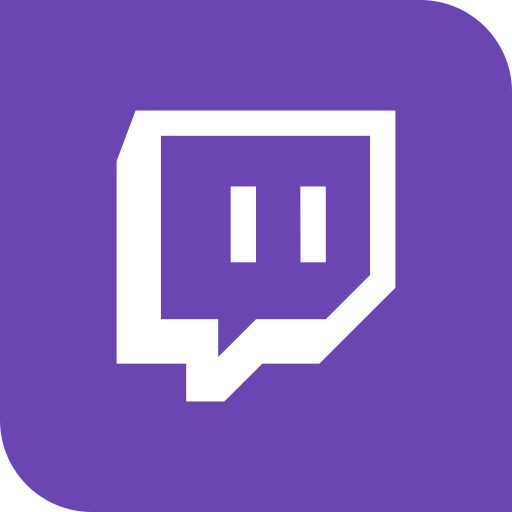
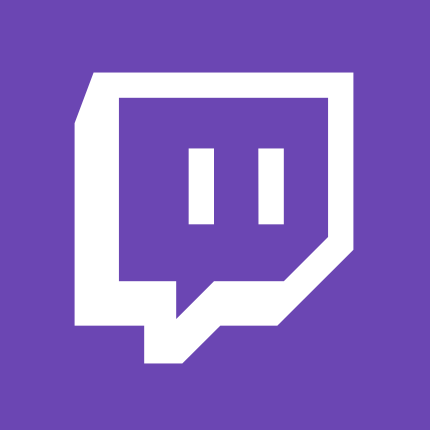
ui: brand images + border-radius

diff --git a/src/components/cardComponent.vue b/src/components/cardComponent.vue
@@ -2,7 +2,7 @@
     <div class="card h-100 border-0 bg-transparent" @click="goToCard" @click.middle="goToCard('middle')">
         <div class="position-relative border border-3 rounded-1" :class="card.type === 'podcast' ? 'border-success' :
             card.type === 'video' ? 'border-yt' : 'border-tw'">
-            <img v-lazy="{ src: images['320'][`${imgName}`] || images['320'][`default`], loading: 'Loading your image'}" class="card-img-top" alt="thumbnail">
+            <img v-lazy="{ src: images['320'][`${imgName}`] || images['320'][`default`], loading: 'Loading your image'}" class="w-100" alt="thumbnail">
             <span class="badge rounded-0 bg-black position-absolute top-0 start-0"
                   style="--bs-bg-opacity: .75;">{{ card.date }}</span>
             <span class="badge rounded-0 bg-black position-absolute bottom-0 end-0"

diff --git a/src/components/miniCardComponent.vue b/src/components/miniCardComponent.vue
@@ -2,7 +2,7 @@
     <div class="card h-100 border-0 bg-transparent" @click="goToCard">
         <div class="position-relative border border-3 rounded-1" :class="card.type === 'podcast' ? 'border-success' :
             card.type === 'video' ? 'border-yt' : 'border-tw'">
-            <img :src="images['320'][`${imgName}`] || images['320'][`default`]" class="card-img-top" alt="thumbnail">
+            <img :src="images['320'][`${imgName}`] || images['320'][`default`]" class="w-100" alt="thumbnail">
             <span class="badge rounded-0 bg-black position-absolute top-0 start-0"
                   style="--bs-bg-opacity: .75;">{{ card.date }}</span>
             <span class="badge rounded-0 bg-black position-absolute bottom-0 end-0"
